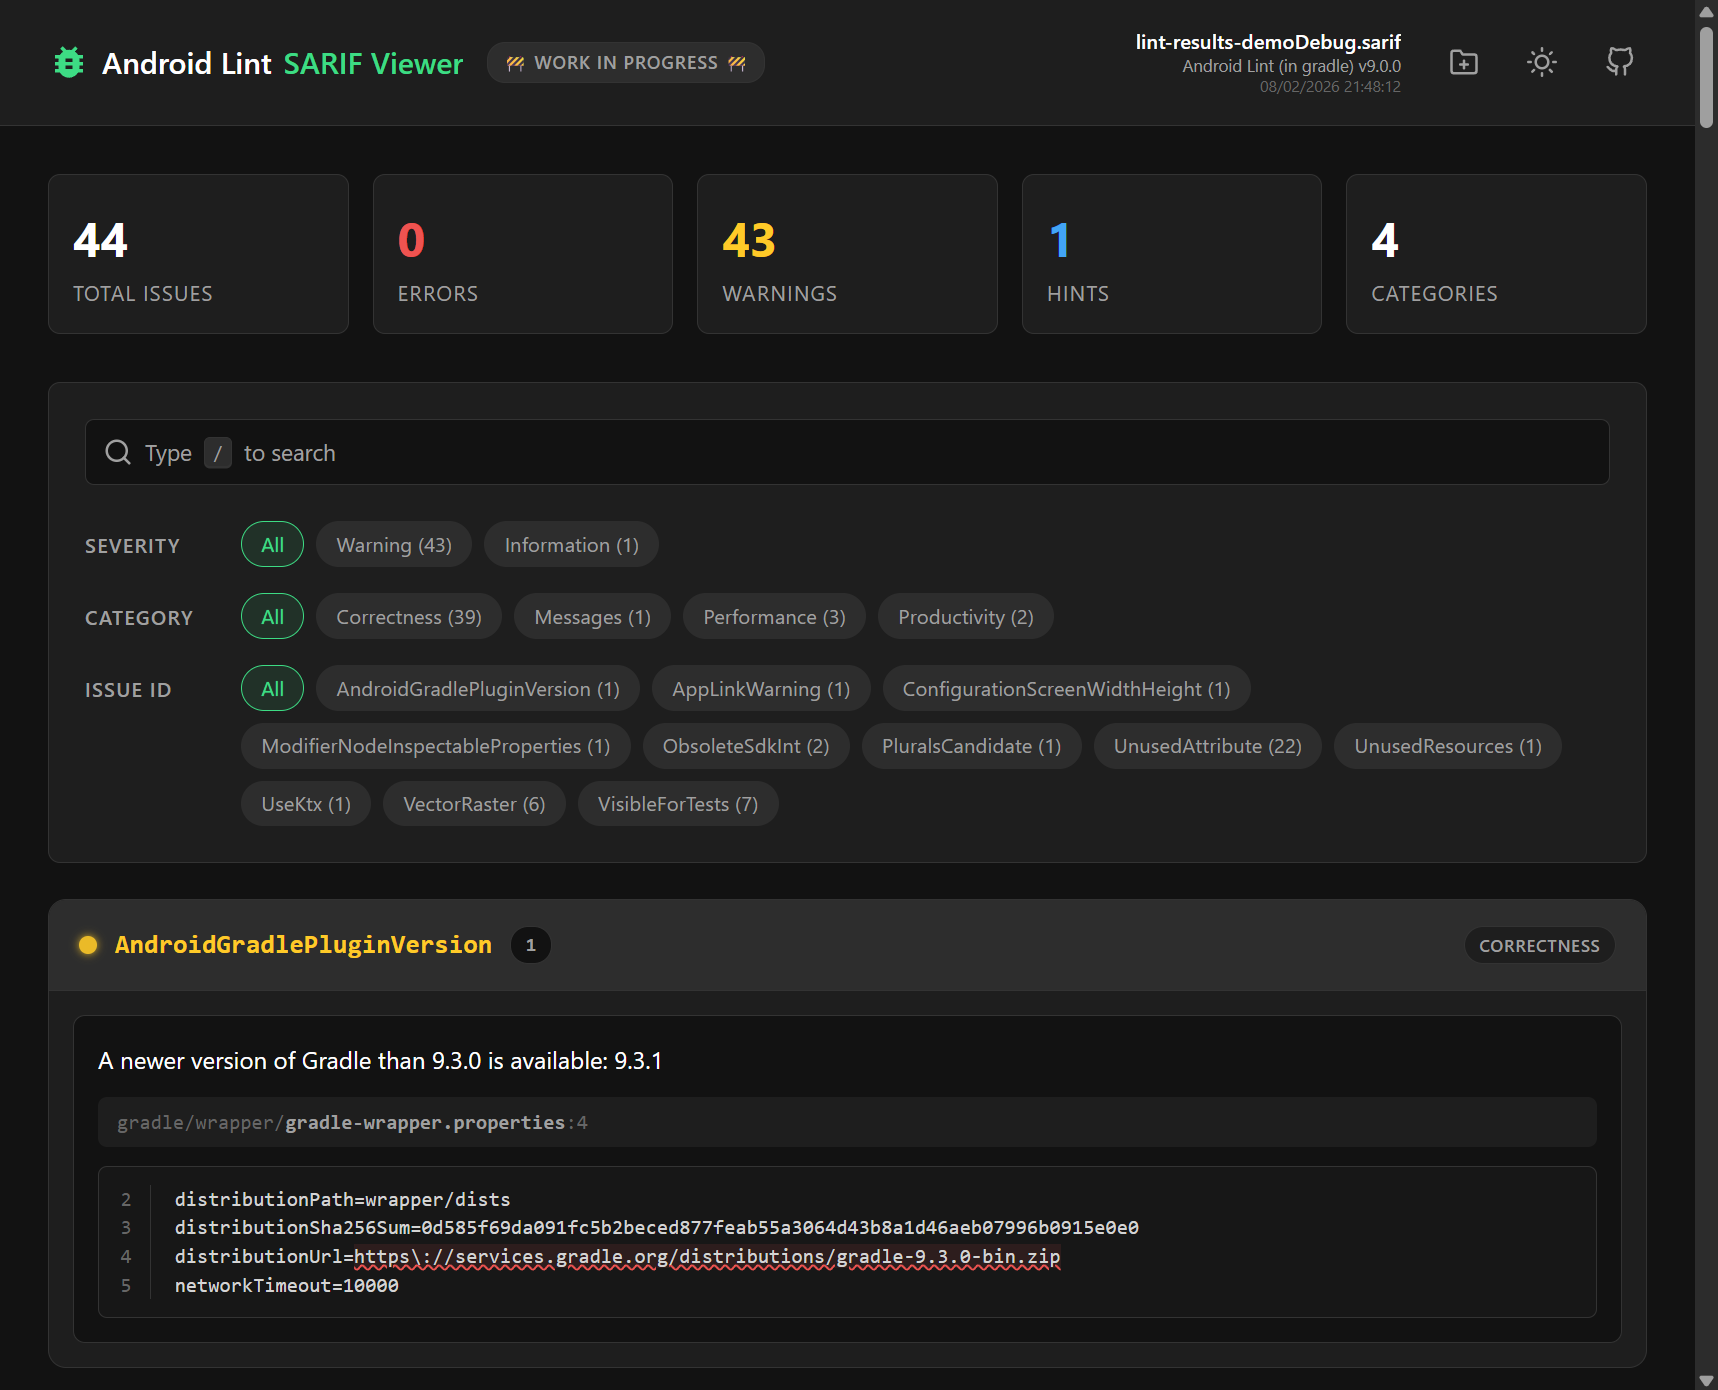
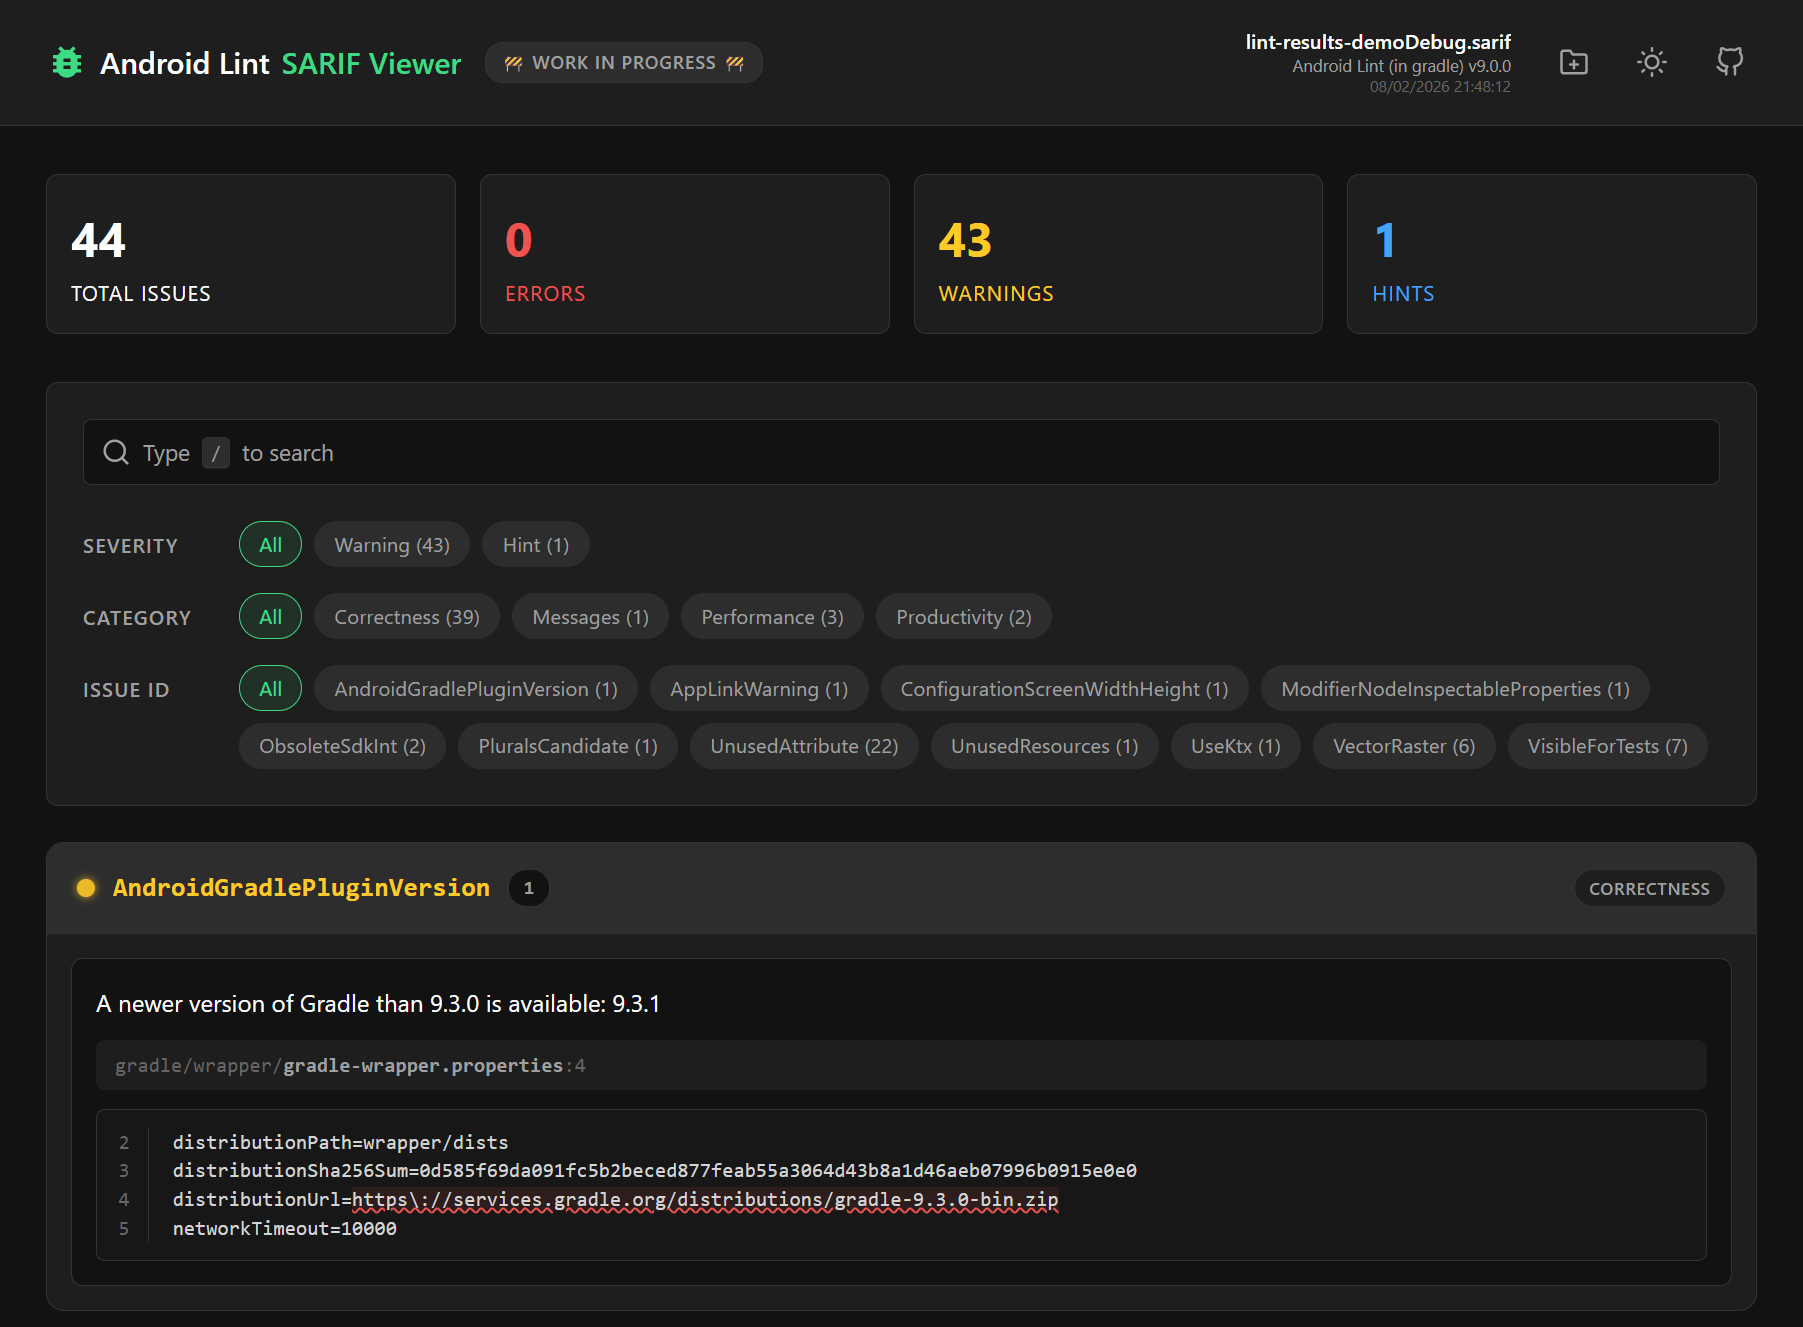
🔍 Update the Android Lint SARIF Viewer (#14)

diff --git a/docs/index.html b/docs/index.html
@@ -309,6 +309,7 @@
         }
 
         .metric-card {
+            --card-accent: var(--text-main);
             background-color: var(--bg-surface);
             padding: 1rem;
             border-radius: 8px;
@@ -316,19 +317,23 @@
             transition: box-shadow 0.2s ease, border-color 0.2s ease;
         }
 
+        .metric-card.is-error { --card-accent: var(--severity-error); }
+        .metric-card.is-warning { --card-accent: var(--severity-warning); }
+        .metric-card.is-info { --card-accent: var(--severity-info); }
+
         .metric-card:hover {
             box-shadow: 0 4px 12px rgba(0,0,0,0.3);
-            border-color: var(--text-tertiary);
+            border-color: var(--card-accent);
         }
 
         .metric-value {
             font-size: 2rem;
             font-weight: 700;
-            color: var(--text-main);
+            color: var(--card-accent);
         }
 
         .metric-label {
-            color: var(--text-secondary);
+            color: var(--card-accent);
             font-size: 0.875rem;
             text-transform: uppercase;
             letter-spacing: 0.05em;
@@ -528,6 +533,7 @@
             font-weight: 700;
             color: var(--primary);
             font-size: 1.1rem;
+            cursor: help;
         }
 
         .issue-group-count {
@@ -876,21 +882,17 @@
                 <div class="metric-value" id="metric-total">0</div>
                 <div class="metric-label">Total Issues</div>
             </div>
-            <div class="metric-card">
-                <div class="metric-value" style="color: var(--severity-error)" id="metric-errors">0</div>
+            <div class="metric-card is-error">
+                <div class="metric-value" id="metric-errors">0</div>
                 <div class="metric-label">Errors</div>
             </div>
-            <div class="metric-card">
-                <div class="metric-value" style="color: var(--severity-warning)" id="metric-warnings">0</div>
+            <div class="metric-card is-warning">
+                <div class="metric-value" id="metric-warnings">0</div>
                 <div class="metric-label">Warnings</div>
             </div>
-            <div class="metric-card">
-                <div class="metric-value" style="color: var(--severity-info)" id="metric-info">0</div>
+            <div class="metric-card is-info">
+                <div class="metric-value" id="metric-info">0</div>
                 <div class="metric-label">Hints</div>
-            </div>
-            <div class="metric-card">
-                <div class="metric-value" id="metric-categories">0</div>
-                <div class="metric-label">Categories</div>
             </div>
         </div>
 
@@ -911,7 +913,7 @@
                     <button class="pill active" data-value="all">All</button>
                     <button class="pill" data-value="error" data-severity="error">Error</button>
                     <button class="pill" data-value="warning" data-severity="warning">Warning</button>
-                    <button class="pill" data-value="info" data-severity="info">Information</button>
+                    <button class="pill" data-value="info" data-severity="info">Hint</button>
                 </div>
             </div>
             <div class="filter-group">
@@ -1025,7 +1027,7 @@
 
     function applyTheme(theme, persist = true) {
         document.documentElement.setAttribute('data-theme', theme);
-        themeToggle.innerHTML = theme === 'dark' ? iconSun : iconSun;
+        themeToggle.innerHTML = theme === 'dark' ? iconSun : iconMoon;
         if (persist) localStorage.setItem('theme', theme);
     }
 
@@ -1045,6 +1047,7 @@
         filteredIssues: [],
         categories: new Set(),
         uniqueIssueIds: new Set(),
+        rules: new Map(),
         filename: '',
         driverInfo: { name: '', version: '' },
         reportDate: null,
@@ -1075,7 +1078,6 @@
     const metricErrors = document.getElementById('metric-errors');
     const metricWarnings = document.getElementById('metric-warnings');
     const metricInfo = document.getElementById('metric-info');
-    const metricCategories = document.getElementById('metric-categories');
 
     window.addEventListener('keydown', (e) => {
         if (e.key === '/' && document.activeElement !== filterText && resultsContainer.style.display !== 'none') {
@@ -1247,20 +1249,34 @@
         let dateVal = run.invocations?.[0]?.endTimeUtc || run.invocations?.[0]?.startTimeUtc || sarif.time;
         state.reportDate = dateVal ? new Date(dateVal) : (state.fileLastModified ? new Date(state.fileLastModified) : new Date());
 
-        const ruleMap = new Map();
+        const getDesc = (obj) => obj?.markdown || obj?.text || "";
+
+        state.rules.clear();
         (driver.rules || []).forEach(rule => {
             let tags = rule.tags || rule.properties?.tags || [rule.properties?.category] || ["General"];
-            ruleMap.set(rule.id, {
+            state.rules.set(rule.id, {
                 name: rule.shortDescription?.text || rule.name || rule.id,
                 categories: Array.isArray(tags) ? tags : ["General"],
-                defaultLevel: rule.defaultConfiguration?.level || "warning"
+                defaultLevel: rule.defaultConfiguration?.level || "warning",
+                shortDescription: getDesc(rule.shortDescription),
+                fullDescription: getDesc(rule.fullDescription) || getDesc(rule.shortDescription)
             });
         });
 
         state.rawIssues = (run.results || []).map(result => {
             const ruleId = result.ruleId;
-            const rd = ruleMap.get(ruleId) || { categories: ['Unknown'], name: ruleId };
+            const rd = state.rules.get(ruleId) || { categories: ['Unknown'], name: ruleId };
             const loc = result.locations?.[0]?.physicalLocation;
+
+            const related = (result.relatedLocations || []).map(rel => {
+                const pLoc = rel.physicalLocation;
+                return {
+                    file: pLoc?.artifactLocation?.uri || "Unknown",
+                    line: pLoc?.region?.startLine || 0,
+                    message: rel.message?.text || ""
+                };
+            });
+
             return {
                 id: ruleId,
                 name: rd.name,
@@ -1270,7 +1286,8 @@
                 line: loc?.region?.startLine || 0,
                 level: result.level || rd.defaultLevel || "warning",
                 snippet: loc?.contextRegion?.snippet?.text ? { text: loc.contextRegion.snippet.text, startLine: loc.contextRegion.startLine || 1 } : null,
-                region: loc?.region || {}
+                region: loc?.region || {},
+                relatedLocations: related
             };
         });
 
@@ -1299,7 +1316,7 @@
     }
 
     function resetApp() {
-        Object.assign(state, { rawIssues: [], filteredIssues: [], categories: new Set(), uniqueIssueIds: new Set(), filename: '', driverInfo: { name: '', version: '' }, reportDate: null, fileLastModified: null });
+        Object.assign(state, { rawIssues: [], filteredIssues: [], categories: new Set(), uniqueIssueIds: new Set(), rules: new Map(), filename: '', driverInfo: { name: '', version: '' }, reportDate: null, fileLastModified: null });
         state.filters = { text: '', categories: new Set(['all']), issueIds: new Set(['all']), severities: new Set(['all']) };
         dropZone.classList.remove('hidden');
         resultsContainer.style.display = 'none';
@@ -1321,7 +1338,13 @@
     function renderIssueIdPills() {
         issueIdPillsContainer.innerHTML = '<button class="pill active" data-value="all">All</button>';
         Array.from(state.uniqueIssueIds).sort().forEach(id => {
-            const p = document.createElement('button'); p.className = 'pill'; p.setAttribute('data-value', id); p.textContent = id; issueIdPillsContainer.appendChild(p);
+            const rd = state.rules.get(id);
+            const p = document.createElement('button');
+            p.className = 'pill';
+            p.setAttribute('data-value', id);
+            p.textContent = id;
+            if (rd?.shortDescription) p.setAttribute('title', rd.shortDescription);
+            issueIdPillsContainer.appendChild(p);
         });
     }
 
@@ -1351,7 +1374,7 @@
         };
         update(severityPillsContainer, 'error', counts.sevs.error, 'Error');
         update(severityPillsContainer, 'warning', counts.sevs.warning, 'Warning');
-        update(severityPillsContainer, 'info', counts.sevs.info, 'Information');
+        update(severityPillsContainer, 'info', counts.sevs.info, 'Hint');
         Array.from(state.categories).forEach(c => update(categoryPillsContainer, c, counts.cats[c] || 0));
         Array.from(state.uniqueIssueIds).forEach(id => update(issueIdPillsContainer, id, counts.ids[id] || 0));
     }
@@ -1362,8 +1385,6 @@
         metricErrors.textContent = issues.filter(i => i.level === 'error').length;
         metricWarnings.textContent = issues.filter(i => i.level === 'warning').length;
         metricInfo.textContent = issues.filter(i => i.level === 'note' || i.level === 'none').length;
-        const cats = new Set(); issues.forEach(i => i.categories.forEach(c => cats.add(c)));
-        metricCategories.textContent = cats.size;
     }
 
     function renderList() {
@@ -1376,12 +1397,15 @@
 
         const fragment = document.createDocumentFragment();
         Object.values(groups).sort((a, b) => a.id.localeCompare(b.id)).forEach(group => {
+            const rd = state.rules.get(group.id);
             const lvl = (group.instances[0].level || 'warning').toLowerCase();
             const sCls = lvl === 'error' ? 'severity-error' : (lvl === 'note' || lvl === 'none' ? 'severity-info' : 'severity-warning');
             const g = document.createElement('div'); g.className = 'issue-group';
             g.innerHTML = `
                 <div class="issue-group-header">
-                    <div class="issue-group-title" style="color: var(--${sCls})"><span class="severity-badge ${sCls}"></span>${sanitize(group.id)} <span class="issue-group-count">${group.instances.length}</span></div>
+                    <div class="issue-group-title" style="color: var(--${sCls})" ${rd?.fullDescription ? `title="${sanitize(rd.fullDescription)}"` : ''}>
+                        <span class="severity-badge ${sCls}"></span>${sanitize(group.id)} <span class="issue-group-count">${group.instances.length}</span>
+                    </div>
                     <div class="categories-wrapper">${group.categories.map(c => `<span class="category-badge">${sanitize(c)}</span>`).join('')}</div>
                 </div>`;
             const content = document.createElement('div'); content.className = 'issue-group-content';
@@ -1401,11 +1425,35 @@
                     }).join('');
                     snippet = `<div class="issue-code-snippet">${lHtml}</div>`;
                 }
+
                 const last = i.file.lastIndexOf('/');
+
+                let relatedHtml = '';
+                if (i.relatedLocations?.length > 0) {
+                    relatedHtml = i.relatedLocations.map(rel => {
+                        const rLast = rel.file.lastIndexOf('/');
+                        return `
+                            <div style="margin-top: 0.5rem; display: flex; flex-direction: column; gap: 0.25rem; padding-left: 0.75rem; border-left: 2px solid var(--border);">
+                                ${rel.message ? `<div style="font-size: 0.75rem; color: var(--text-tertiary); font-style: italic;">${sanitize(rel.message)}</div>` : ''}
+                                <button class="issue-location" data-path="${sanitize(rel.file)}:${rel.line}">
+                                    <span class="path-dir">${sanitize(rel.file.substring(0, rLast + 1))}</span>
+                                    <span class="path-name">${sanitize(rel.file.substring(rLast + 1))}</span>
+                                    <span class="line-number">:${rel.line}</span>
+                                </button>
+                            </div>
+                        `;
+                    }).join('');
+                }
+
                 const card = document.createElement('div'); card.className = 'issue-card';
                 card.innerHTML = `
                     <div class="issue-message"><span>${sanitize(i.message)}</span></div>
-                    <button class="issue-location" data-path="${sanitize(i.file)}:${i.line}"><span class="path-dir">${sanitize(i.file.substring(0, last + 1))}</span><span class="path-name">${sanitize(i.file.substring(last + 1))}</span><span class="line-number">:${i.line}</span></button>
+                    <button class="issue-location" data-path="${sanitize(i.file)}:${i.line}">
+                        <span class="path-dir">${sanitize(i.file.substring(0, last + 1))}</span>
+                        <span class="path-name">${sanitize(i.file.substring(last + 1))}</span>
+                        <span class="line-number">:${i.line}</span>
+                    </button>
+                    ${relatedHtml}
                     ${snippet}`;
                 content.appendChild(card);
             });
